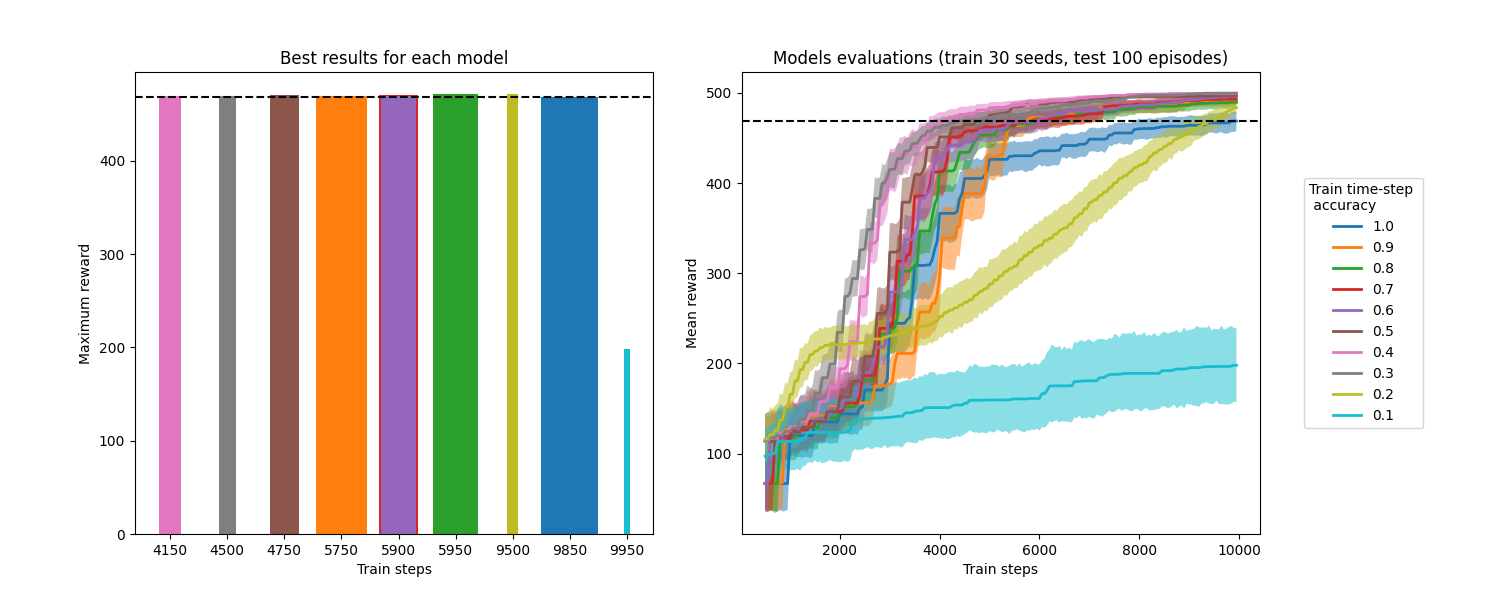
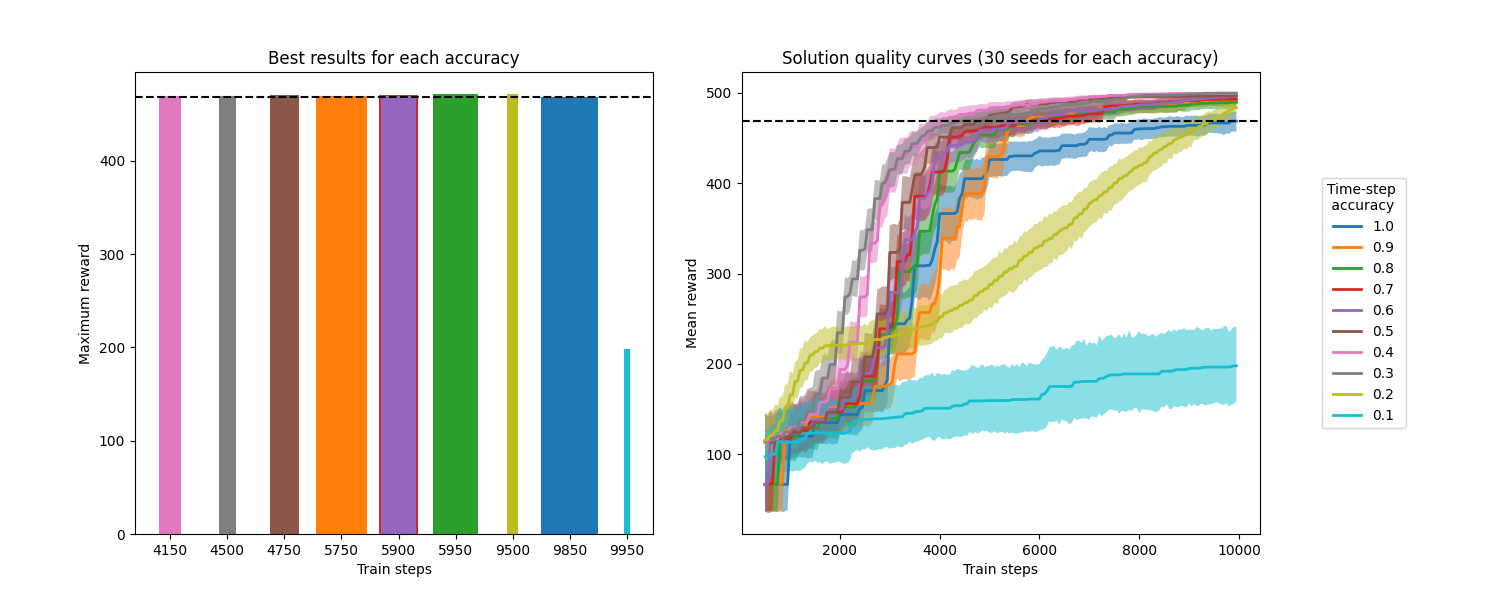
Update Cartpole code

diff --git a/experimentScripts_CartPole/UnderstandingAccuracy_figures.py b/experimentScripts_CartPole/UnderstandingAccuracy_figures.py
@@ -25,6 +25,29 @@ from itertools import combinations
 #==================================================================================================
 # FUNCTIONS
 #==================================================================================================
+def from_argsort_to_ranking(list):
+    '''Obtain ranking from a list get after applying "np.argsort" on an original list.'''
+    new_list=[0]*len(list)
+    i=0
+    for j in list:
+        new_list[j]=i
+        i+=1
+    return new_list
+
+def custom_sort(list,argsort):
+    '''Sort list according to the order for each position defined in argsort.'''
+    new_list=[]
+    for index in argsort:
+        new_list.append(list[index])
+    return new_list
+
+def remove_element_in_idx(list_elements,list_idx):
+    '''Delete elements at certain positions in a list.'''
+    new_list=[]
+    for i in range(len(list_elements)):
+        if i not in list_idx:
+            new_list.append(list_elements[i])
+    return new_list
 
 def bootstrap_mean_and_confidence_interval(data,bootstrap_iterations=1000):
     '''
@@ -45,22 +68,6 @@ def bootstrap_mean_and_confidence_interval(data,bootstrap_iterations=1000):
         mean_list.append(np.mean(sample))
     return np.mean(data),np.quantile(mean_list, 0.05),np.quantile(mean_list, 0.95)
 
-def from_argsort_to_ranking(list):
-    '''Obtain ranking from a list get after applying "np.argsort" on an original list.'''
-    new_list=[0]*len(list)
-    i=0
-    for j in list:
-        new_list[j]=i
-        i+=1
-    return new_list
-
-def custom_sort(list,argsort):
-    '''Sort list according to the order for each position defined in argsort.'''
-    new_list=[]
-    for index in argsort:
-        new_list.append(list[index])
-    return new_list
-
 def inverse_normalized_tau_kendall(x,y):
     '''Calculation of the normalized inverse tau kendall distance between two rankings.'''
     # Number of pairs with reverse order.
@@ -79,14 +86,6 @@ def inverse_normalized_tau_kendall(x,y):
     tau_kendall=pairs_reverse_order/total_pairs
 
     return 1-tau_kendall
-
-def remove_element_in_idx(list_elements,list_idx):
-    '''Delete elements at certain positions in a list.'''
-    new_list=[]
-    for i in range(len(list_elements)):
-        if i not in list_idx:
-            new_list.append(list_elements[i])
-    return new_list
 
 def from_data_to_figures(df):
     '''Construct the desired graphs from the database.'''
@@ -145,6 +144,8 @@ def from_data_to_figures(df):
     #----------------------------------------------------------------------------------------------
     # GRAPH 3: comparison of rankings associated with the 100 solutions with each accuracy.
     #----------------------------------------------------------------------------------------------
+    ax=plt.subplot(223)
+
     def ranking_matrix_sorted_by_max_acc(ranking_matrix):
         '''Reorder ranking matrix according to the order established by the original ranking.'''
 
@@ -158,15 +159,11 @@ def from_data_to_figures(df):
 
         return sorted_ranking_list
 
-    ax=plt.subplot(223)
-
     ranking_list=[]
-
     for accuracy in list_acc:
         df_acc=df[df['accuracy']==accuracy]
         ranking=from_argsort_to_ranking(list(df_acc['reward'].argsort()))
         ranking_list.append(ranking)
-    
     ranking_matrix=np.matrix(ranking_matrix_sorted_by_max_acc(ranking_list))
 
     color = sns.cubehelix_palette(start=2, rot=0, dark=0, light=.95, reverse=True, as_cmap=True)
@@ -185,7 +182,6 @@ def from_data_to_figures(df):
     ax.set_xlabel('Solution')
     ax.set_xticks(range(0,ranking_matrix.shape[1],10))
     ax.set_xticklabels(range(1,ranking_matrix.shape[1]+1,10),rotation=0)
-
     ax.set_ylabel('Accuracy')
     ax.set_title('Comparing rankings depending on accuracy')
     ax.set_yticks(np.arange(0.5,len(list_acc)+0.5,1))
@@ -243,7 +239,7 @@ def from_data_to_figures(df):
 #==================================================================================================
 # MAIN PROGRAM
 #==================================================================================================
-# read database.
+# Read database.
 df=pd.read_csv('results/data/CartPole/UnderstandingAccuracy.csv',index_col=0)
 
 # Build the graph.

diff --git a/experimentScripts_CartPole/ConstantAccuracyAnalysis_data.py b/experimentScripts_CartPole/ConstantAccuracyAnalysis_data.py
@@ -71,7 +71,7 @@ def evaluate(model,eval_env,eval_seed,n_eval_episodes):
     Parameters
     ==========
     model: Policy to be evaluated.
-    val_env : Validation environment.
+    eval_env : Validation environment.
     init_obs : Initial state of the first episode of the validation environment.
     seed (int): Seed of the validation environment.
     n_eval_episodes (int): Number of episodes (evaluations) in which the model will be evaluated.
@@ -92,8 +92,8 @@ def evaluate(model,eval_env,eval_seed,n_eval_episodes):
         episode_rewards = 0
         done = False # Parameter that indicates after each action if the episode continues (False) or is finished (True).
         while not done:
-            action, _states = model.predict(obs, deterministic=True) # Se predice la accion que se debe tomar con el modelo.         
-            obs, reward, done, info = eval_env.step(action) # The action to be taken with the policy is predicted.
+            action, _states = model.predict(obs, deterministic=True) # The action to be taken with the model is predicted.         
+            obs, reward, done, info = eval_env.step(action) # Action is applied in the environment.
             episode_rewards+=reward # The reward is saved.
 
         # Save total episode reward.
@@ -134,7 +134,7 @@ def callback_in_each_iteration(self, num_timesteps: int, total_timesteps: int) -
     # Resume time.
     sw.resume()
 
-    # This line is used by the function we are replacing: do not change this line.
+    # This line is used by the function we are replacing. Do not change this line.
     self._current_progress_remaining = 1.0 - float(num_timesteps) / float(total_timesteps) 
 
 def _setup_learn(
@@ -202,7 +202,7 @@ def _setup_learn(
 # To use the modified callback function.
 import stable_baselines3.common.base_class
 stable_baselines3.common.base_class.BaseAlgorithm._update_current_progress_remaining = callback_in_each_iteration
-# To use the modified funcion _setup_learn function.
+# To use the modified _setup_learn function function.
 from stable_baselines3.common.base_class import *
 BaseAlgorithm._setup_learn=_setup_learn
     
@@ -247,7 +247,7 @@ def parallel_processing(accuracy):
         model.learn(total_timesteps=max_train_steps)
 
     df_train_acc=pd.DataFrame(df_train_acc,columns=['steps','info_steps','seed','n_eval','max_step_per_eval','time','info_time','mean_reward'])
-    df_train_acc.to_csv('results/data/CartPole/ConstantAccuracyAnalysis/df_train_acc'+str(accuracy)+'_.csv')
+    df_train_acc.to_csv('results/data/CartPole/ConstantAccuracyAnalysis/df_train_acc'+str(accuracy)+'.csv')
 
 # Parallel processing.
 pool=mp.Pool(mp.cpu_count())

diff --git a/experimentScripts_CartPole/ConstantAccuracyAnalysis_figures.py b/experimentScripts_CartPole/ConstantAccuracyAnalysis_figures.py
@@ -58,7 +58,7 @@ def train_data_to_figure_data(df_train_acc,list_train_steps):
     all_q05_reawrds=[]
     all_q95_rewards=[]
 
-    # Fitting lists.
+    # Fill in lists.
     for train_steps in list_train_steps:
         # Row indexes with a number of training steps less than train_steps.
         ind_train=df_train_acc["info_steps"] <= train_steps
@@ -136,7 +136,7 @@ ax.bar(train_steps_sort,max_rewards_sort,acc_sort,label=acc_sort_str,color=color
 plt.axhline(y=score_limit,color='black', linestyle='--')
 ax.set_xlabel("Train steps")
 ax.set_ylabel("Maximum reward")
-ax.set_title('Best results for each model')
+ax.set_title('Best results for each accuracy')
 
 #--------------------------------------------------------------------------------------------------
 # GRAPH 2 (general results)
@@ -145,7 +145,7 @@ ax=plt.subplot(122)
 
 # Draw a curve for each accuracy value.
 for accuracy in grid_acc:
-    # read database.
+    # Read database.
     df_train_acc=pd.read_csv("results/data/CartPole/ConstantAccuracyAnalysis/df_train_acc"+str(accuracy)+".csv", index_col=0)
 
     # Extract relevant information from the database.
@@ -159,8 +159,8 @@ for accuracy in grid_acc:
 plt.axhline(y=score_limit,color='black', linestyle='--')
 ax.set_xlabel("Train steps")
 ax.set_ylabel("Mean reward")
-ax.set_title('Models evaluations (train 30 seeds, test 100 episodes)')
-ax.legend(title="Train time-step \n accuracy",bbox_to_anchor=(1.2, 0, 0, 1), loc='center')
+ax.set_title('Solution quality curves (30 seeds for each accuracy)')
+ax.legend(title="Time-step \n accuracy",bbox_to_anchor=(1.2, 0, 0, 1), loc='center')
 
 plt.savefig('results/figures/CartPole/ConstantAccuracyAnalysis.png')
 plt.show()

diff --git a/experimentScripts_CartPole/UnderstandingAccuracy_data.py b/experimentScripts_CartPole/UnderstandingAccuracy_data.py
@@ -33,9 +33,9 @@ def build_policy_sample(n_sample=100):
     return policy_sample
 
 def evaluate_policy(policy,accuracy):
-    ''' Evaluate policy on 10 episodes of a defined environment with a given accuracy.'''
+    ''' Evaluate a policy on 10 episodes of a defined environment with a given accuracy.'''
 
-    # Initialize the training environment with the specified accuracy.
+    # Initialize the evaluation environment with the specified accuracy.
     env = gym.make('CartPole-v1')
     env.env.tau = env.env.tau / accuracy
     env.env.spec.max_episode_steps = int(env.env.spec.max_episode_steps*accuracy)
@@ -64,7 +64,7 @@ def evaluate_policy(policy,accuracy):
     return np.mean(all_episode_reward),np.mean(all_episode_steps)
 
 def evaluate_policy_sample(policy_sample,accuracy):
-    '''Evaluate set of policies on 10 episodes of a defined environment with a specific accuracy.'''
+    '''Evaluate a set of policies on 10 episodes of a defined environment with a specific accuracy.'''
 
     for i in tqdm(range(len(policy_sample))):
         reward,steps=evaluate_policy(policy_sample[i],accuracy)
